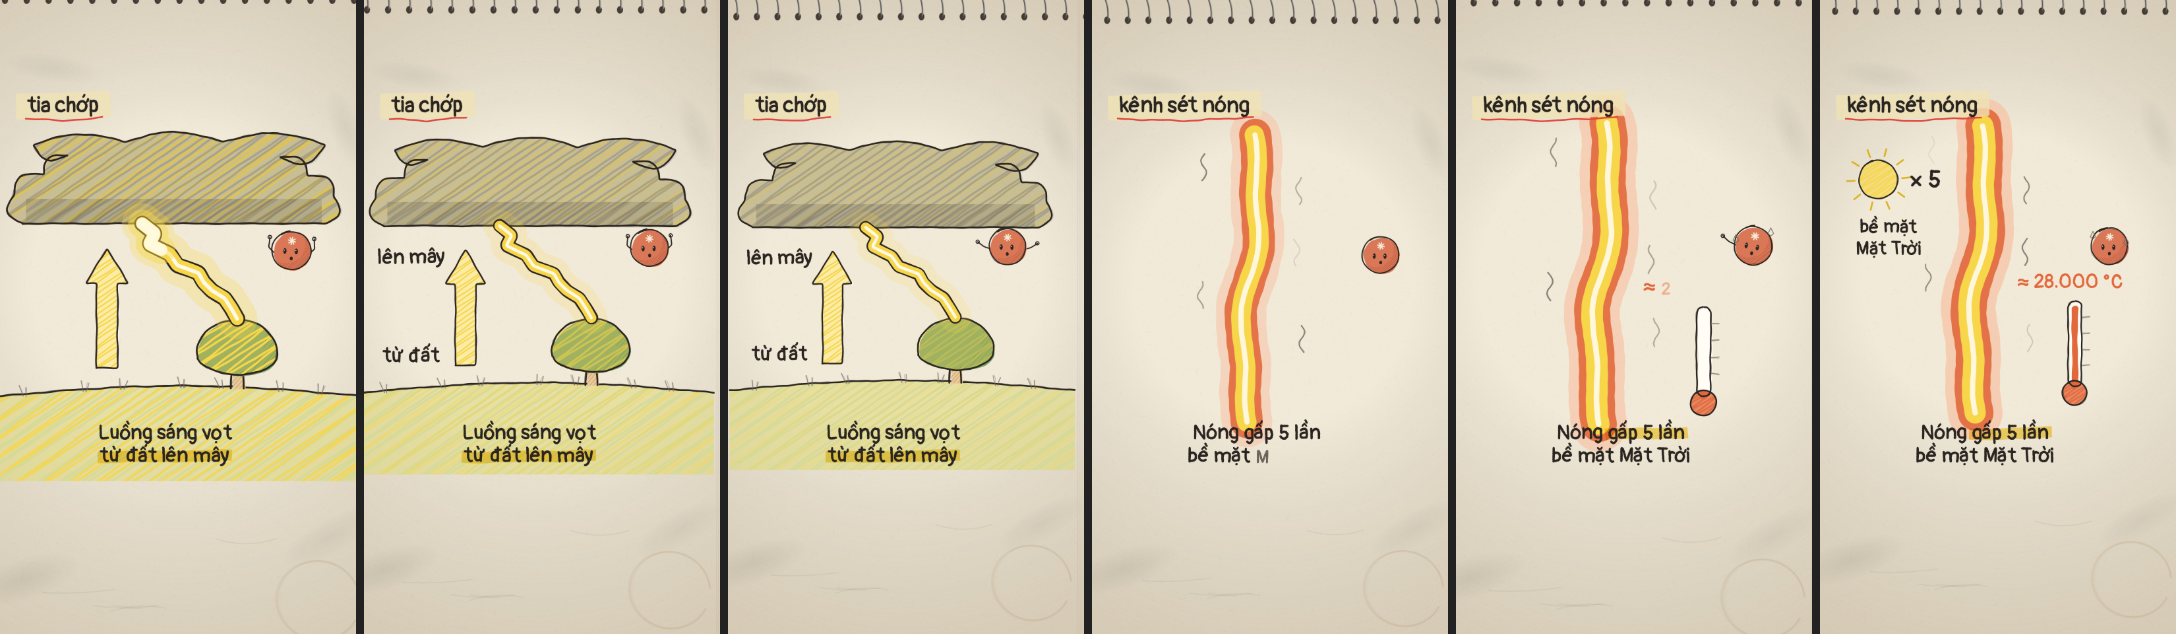
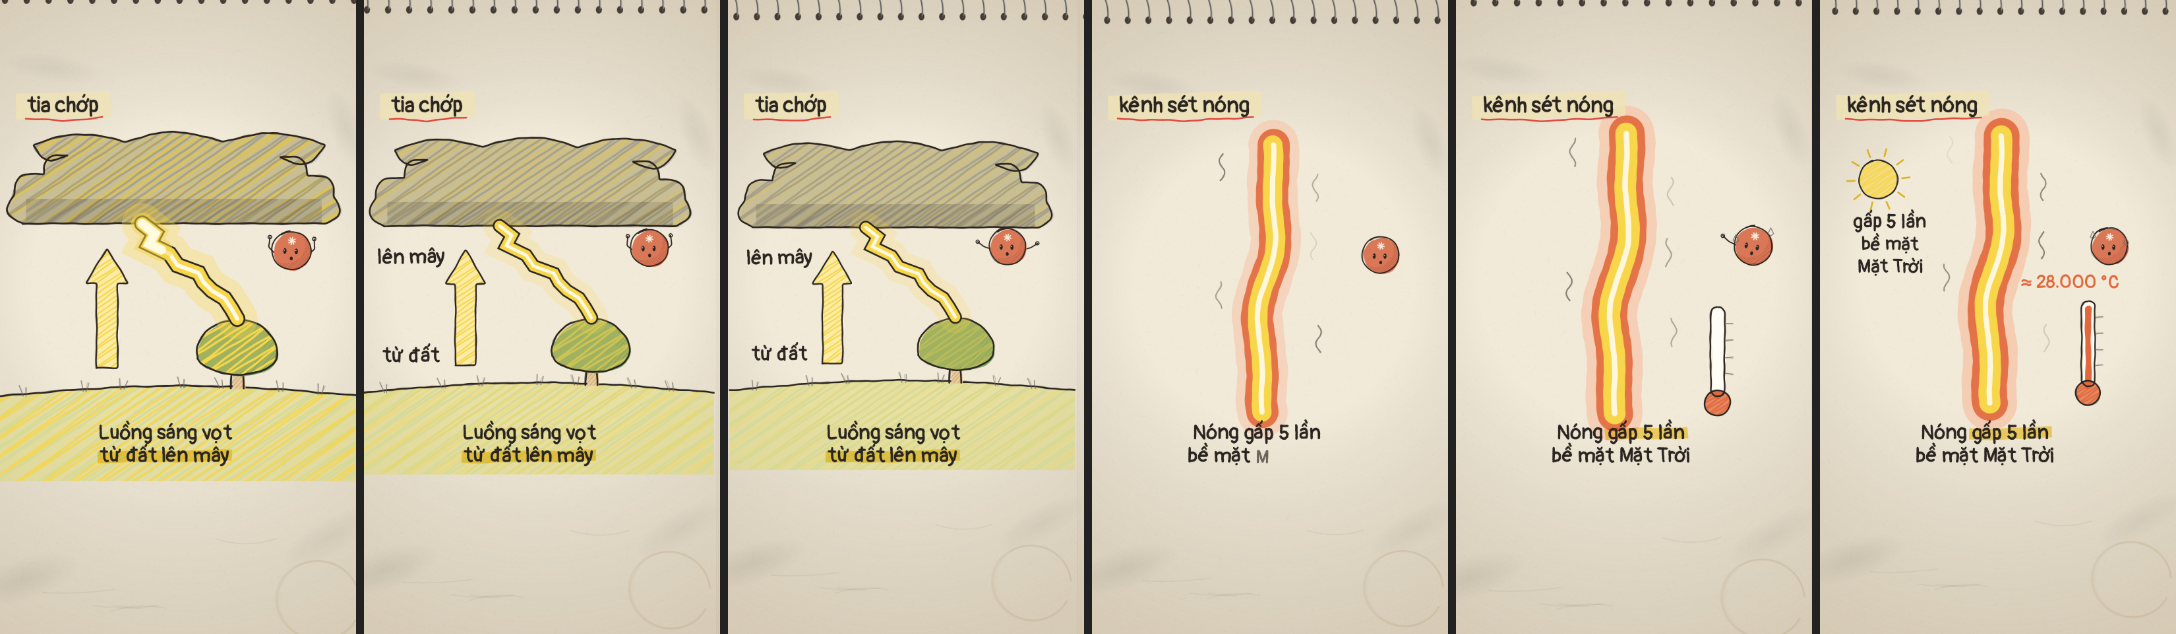
set: labels inside safe zone; refreshed 6b sheets

diff --git a/pieces/set/src/sc-cloud.js b/pieces/set/src/sc-cloud.js
@@ -193,7 +193,7 @@ SCENES.heat = function () {
     for (let i = 1; i <= 4; i++) gpencil([[tx + 22, tTop + i * 48], [tx + 44, tTop + i * 48]], { w: 3, key: 'c_tht' + i, part: kt });
     ctx.restore();
   }
-  c_lab('≈ 28.000 °C', 772, 885, 58, tsat + 0.25, tEnd, { col: COL.hot, key: 'c_lt', d: 0.2 });
+  c_lab('≈ 28.000 °C', 745, 885, 54, tsat + 0.25, tEnd, { col: COL.hot, key: 'c_lt', d: 0.2 });
   // the sun ×5 (left, up): on "nóng gấp"
   const ks = ev(tn, 0.4), sfa = 1 - seg(TT, tEnd - 0.25, tEnd);
   if (ks > 0) { ctx.save(); ctx.globalAlpha *= sfa; c_sun(170, 560, 58 + 4 * Math.sin(TAU * u / 1.2), ks, 'c_sun'); ctx.restore(); }

diff --git a/pieces/set/src/sc-bolt.js b/pieces/set/src/sc-bolt.js
@@ -101,7 +101,7 @@ SCENES.leader = function () {
   b_label('tia tiên đạo', 245, 930, 58, tTien, off);
   b_label('(mờ)', 245, 1000, 58, tTien + 0.4, off);
   if (TT > tTien + 0.3 && TT < off) { ctx.save(); ctx.globalAlpha *= b_fade(off); arrowPencil([[330, 880], [400, 800]], ev(tDo, 0.3), { key: 'b_lda', w: 4 }); ctx.restore(); }
-  b_label('từng bước', 800, 760, 54, tTung, off, { d: 0.35 });
+  b_label('từng bước', 770, 760, 52, tTung, off, { d: 0.35 });
   viTag('tia tiên đạo');
   pageCaption(['Tia tiên đạo mờ', 'dò từng bước xuống'], [[1, 'từng bước']], { size: 62, at: 0.3 });
 };
